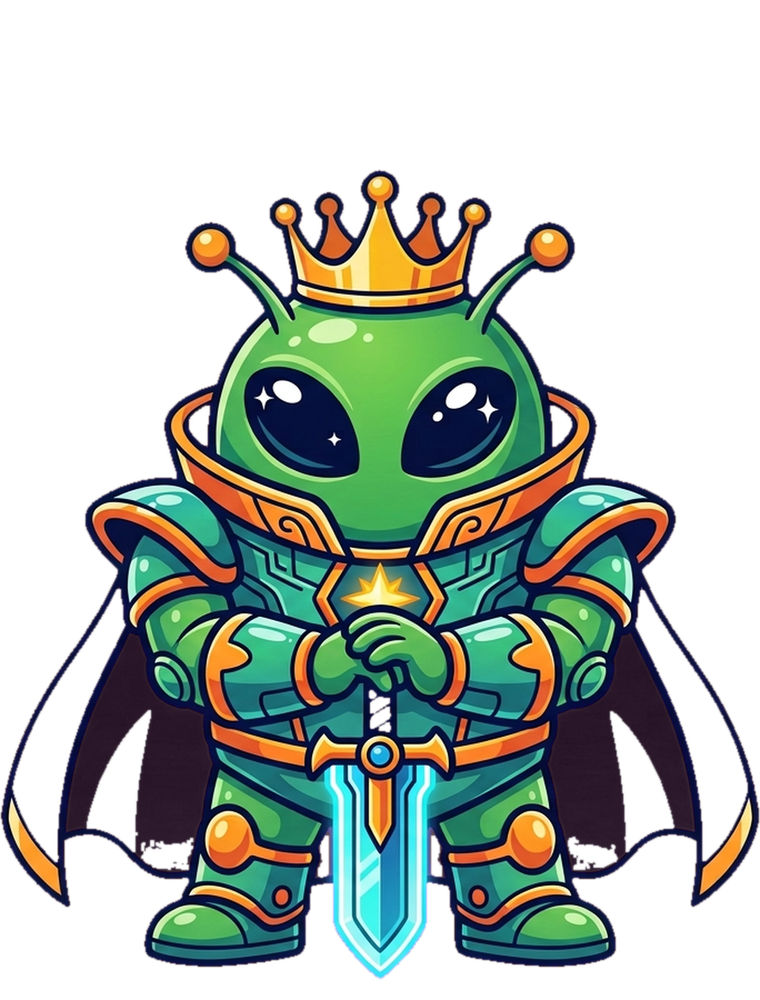
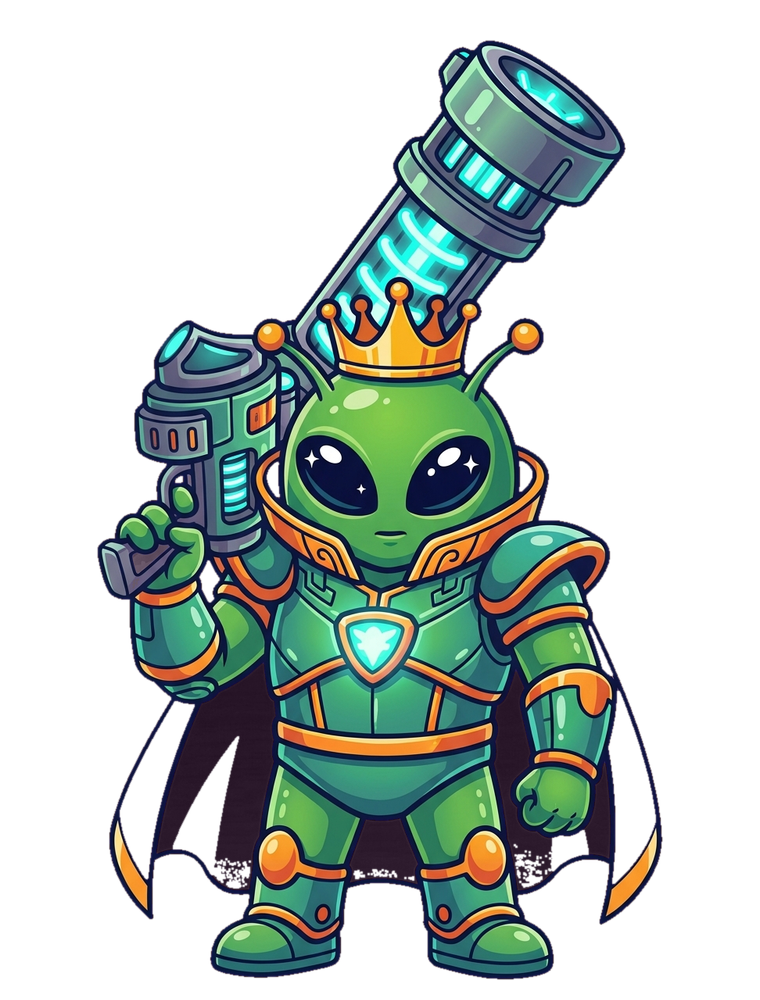
Martian green army: six idle portraits, laser weapons
Casts the set with sci-fi weapons rather than blades: blaster pawn,
gatling-arm rook, laser-lance saucer knight, energy-stave bishop, beam-rifle
queen, and a king carrying an oversized plasma cannon.

The slicer now derives ONE scale for a whole sheet instead of fitting each
frame to a fixed figure height. Per-frame fitting made the character pulse
between frames (a crouched pose is shorter, so it got blown up to match), and
it shrank wide poses below the height of smaller pieces -- the king with the
cannon came out shorter than the pawn.

Claude-Session: https://claude.ai/code/session_01TdL6j6NMzYkqk1GRLT2QrT

diff --git a/tools/slice-sheet.py b/tools/slice-sheet.py
@@ -179,21 +179,29 @@ def prune_strays(img, min_frac=0.06, pad=36):
     img.putalpha(Image.fromarray(a))
     return img
 
-def finish(img, out_name, wide_by_width=True):
+def tighten(img):
+    """Clean the keyed alpha and crop to the figure. Returns the cropped RGBA."""
     a = img.getchannel('A').filter(ImageFilter.MinFilter(3)).filter(ImageFilter.GaussianBlur(0.7))
     img.putalpha(a)
     img = prune_strays(img)
     bb = img.getchannel('A').point(lambda v: 255 if v > 20 else 0).getbbox()
-    crop = img.crop(bb)
-    ar = crop.width / crop.height
-    if wide_by_width and ar > 1.2:
-        s = (CANVAS[0] * 0.95) / crop.width
-    else:
-        s = FIG_H / crop.height
-    crop = crop.resize((int(crop.width*s), int(crop.height*s)), Image.LANCZOS)
-    if crop.width > CANVAS[0]:
-        s2 = CANVAS[0] / crop.width
-        crop = crop.resize((CANVAS[0], int(crop.height*s2)), Image.LANCZOS)
+    return img.crop(bb)
+
+def fit_scale(crops):
+    """One scale for a whole sheet.
+
+    Scaling each frame to a fixed figure height independently makes the
+    character PULSE between frames: a crouched or lunging pose is shorter, so
+    it gets blown up to match. Deriving a single scale from the extents of all
+    frames keeps the character one size across the animation, and the width
+    term stops a wide pose (a lunge, a braced cannon, a fallen body) from
+    overflowing the canvas."""
+    return min(FIG_H / max(c.height for c in crops),
+               CANVAS[0] * 0.98 / max(c.width for c in crops))
+
+def place(crop, s, out_name):
+    """Scale by s, bottom-align on the shared canvas, write the PNG."""
+    crop = crop.resize((max(1, round(crop.width*s)), max(1, round(crop.height*s))), Image.LANCZOS)
     cv = Image.new('RGBA', CANVAS, (0, 0, 0, 0))
     cv.paste(crop, ((CANVAS[0]-crop.width)//2, CANVAS[1]-BOTTOM_PAD-crop.height))
     os.makedirs(OUT_DIR, exist_ok=True)
@@ -201,19 +209,25 @@ def finish(img, out_name, wide_by_width=True):
     cv.save(out)
     print('saved', out)
 
+def finish(img, out_name):
+    crop = tighten(img)
+    place(crop, fit_scale([crop]), out_name)
+
 def main(src, prefix):
     im = Image.open(src).convert('RGB')
     W, H = im.size
     arr = np.asarray(im).astype(np.int16)
     grid = fit_grid(classify(arr))
     fw, fh = W // 2, H // 2
-    idx = 0
+    crops = []
     for r in range(2):
         for c in range(2):
             fa = arr[r*fh:(r+1)*fh, c*fw:(c+1)*fw]
             alpha = checker_alpha(fa, grid, r*fh, c*fw)
-            finish(Image.fromarray(np.dstack([fa.astype(np.uint8), alpha]), 'RGBA'), f'{prefix}-{idx}')
-            idx += 1
+            crops.append(tighten(Image.fromarray(np.dstack([fa.astype(np.uint8), alpha]), 'RGBA')))
+    s = fit_scale(crops)
+    for idx, crop in enumerate(crops):
+        place(crop, s, f'{prefix}-{idx}')
 
 def single(src, name):
     im = Image.open(src).convert('RGB')
@@ -254,13 +268,15 @@ def main_green(src, prefix, inset=14):
     W, H = im.size
     arr = np.asarray(im).astype(np.int16).copy()
     fw, fh = W // 2, H // 2
-    idx = 0
+    crops = []
     for r in range(2):
         for c in range(2):
             fa = arr[r*fh+inset:(r+1)*fh-inset, c*fw+inset:(c+1)*fw-inset].copy()
             alpha = green_alpha(fa)
-            finish(Image.fromarray(np.dstack([fa.astype(np.uint8), alpha]), 'RGBA'), f'{prefix}-{idx}')
-            idx += 1
+            crops.append(tighten(Image.fromarray(np.dstack([fa.astype(np.uint8), alpha]), 'RGBA')))
+    s = fit_scale(crops)
+    for idx, crop in enumerate(crops):
+        place(crop, s, f'{prefix}-{idx}')
 
 def single_green(src, name):
     arr = np.asarray(Image.open(src).convert('RGB')).astype(np.int16).copy()
